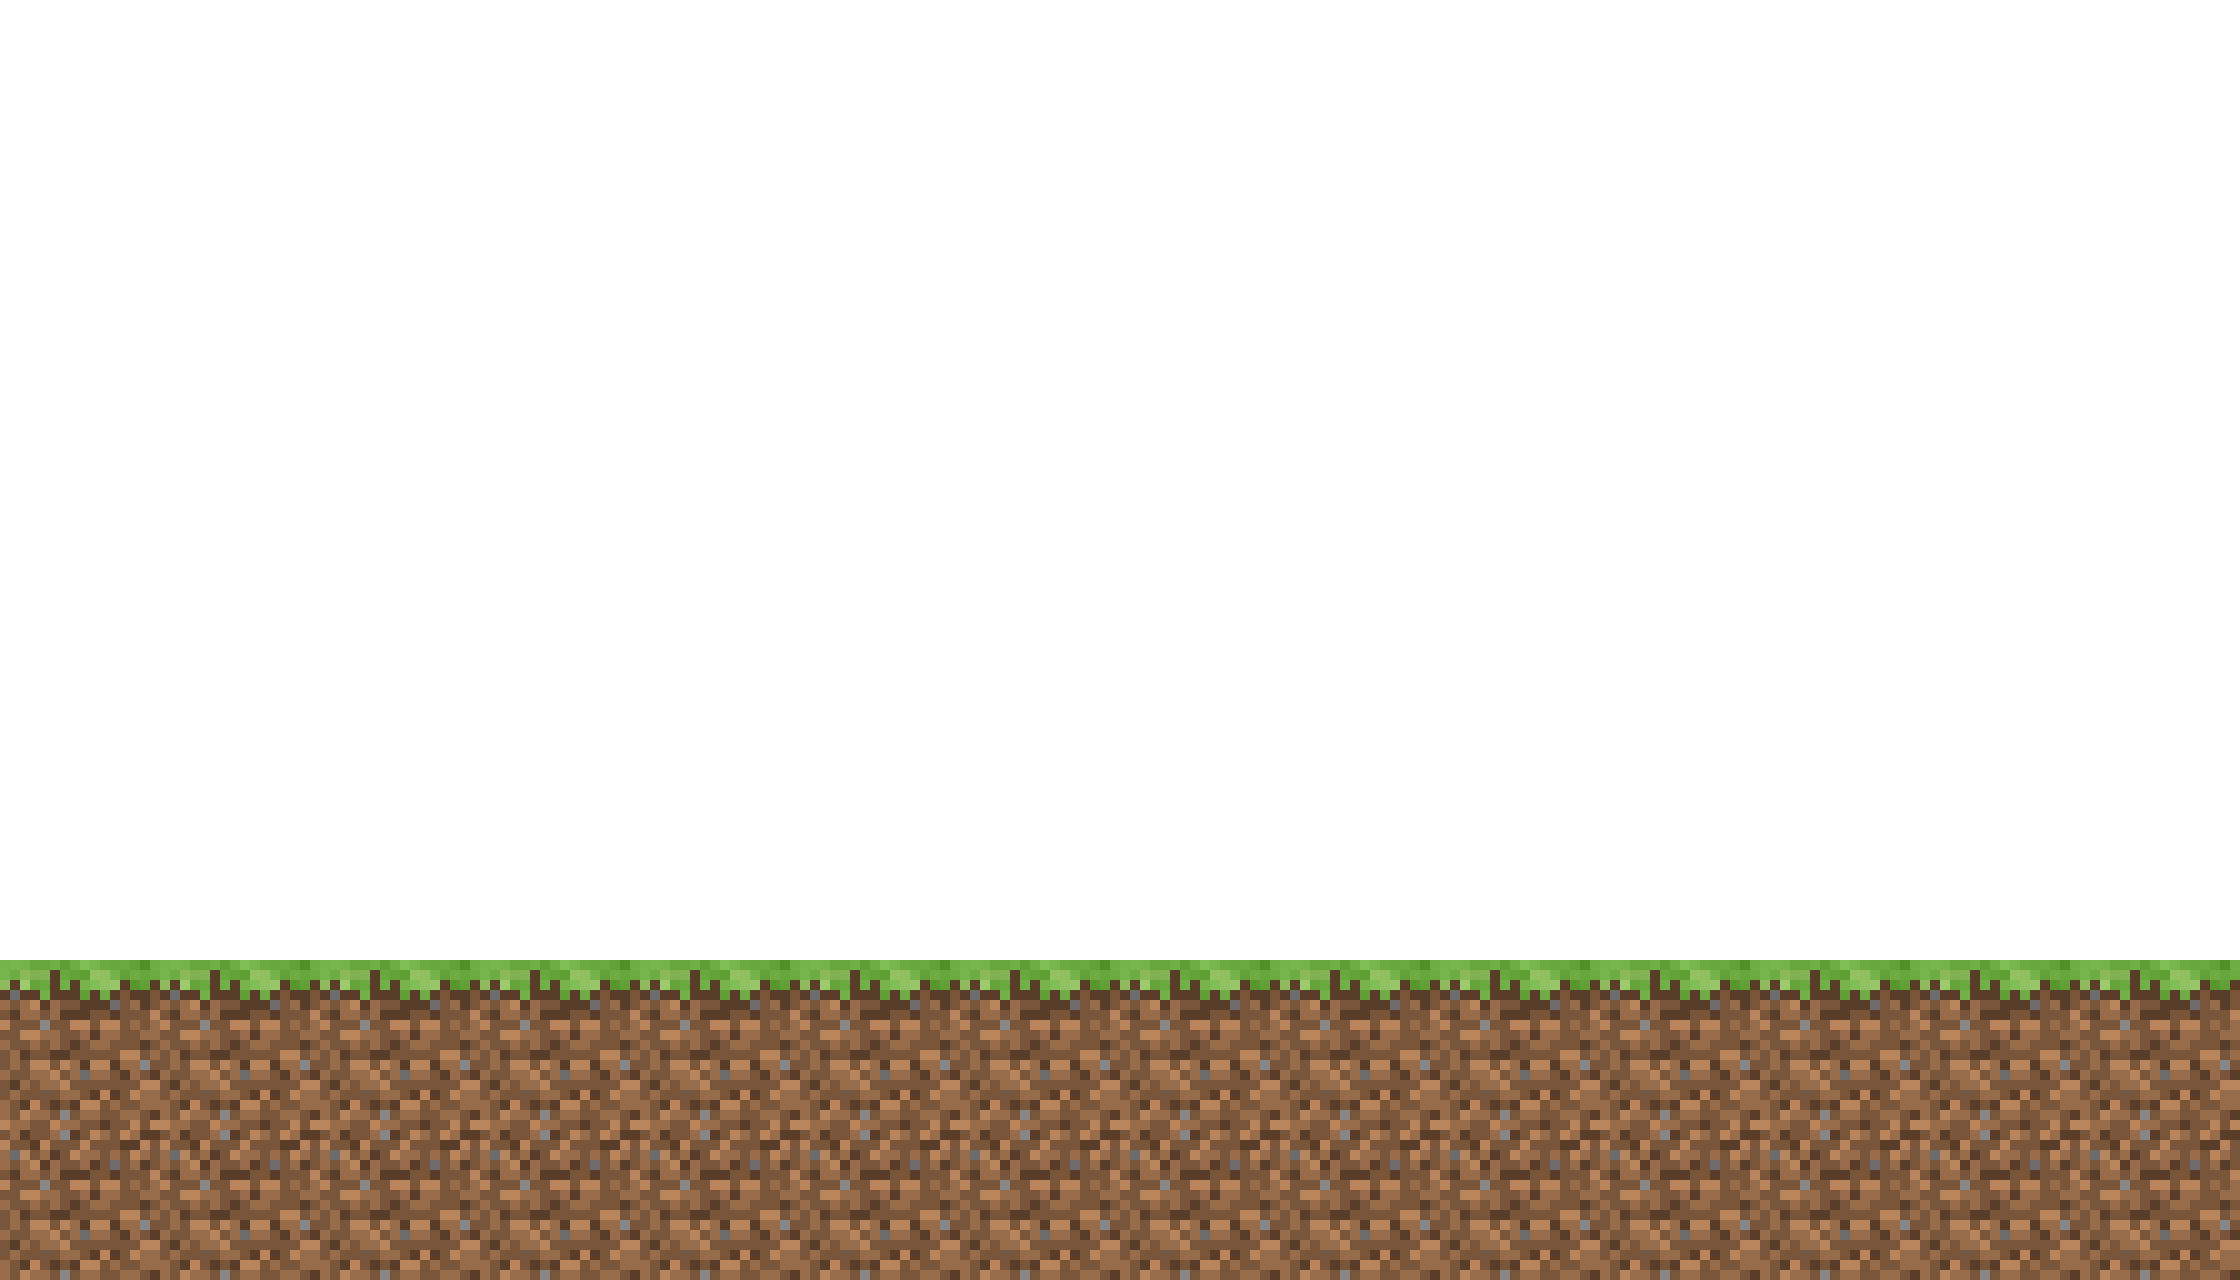
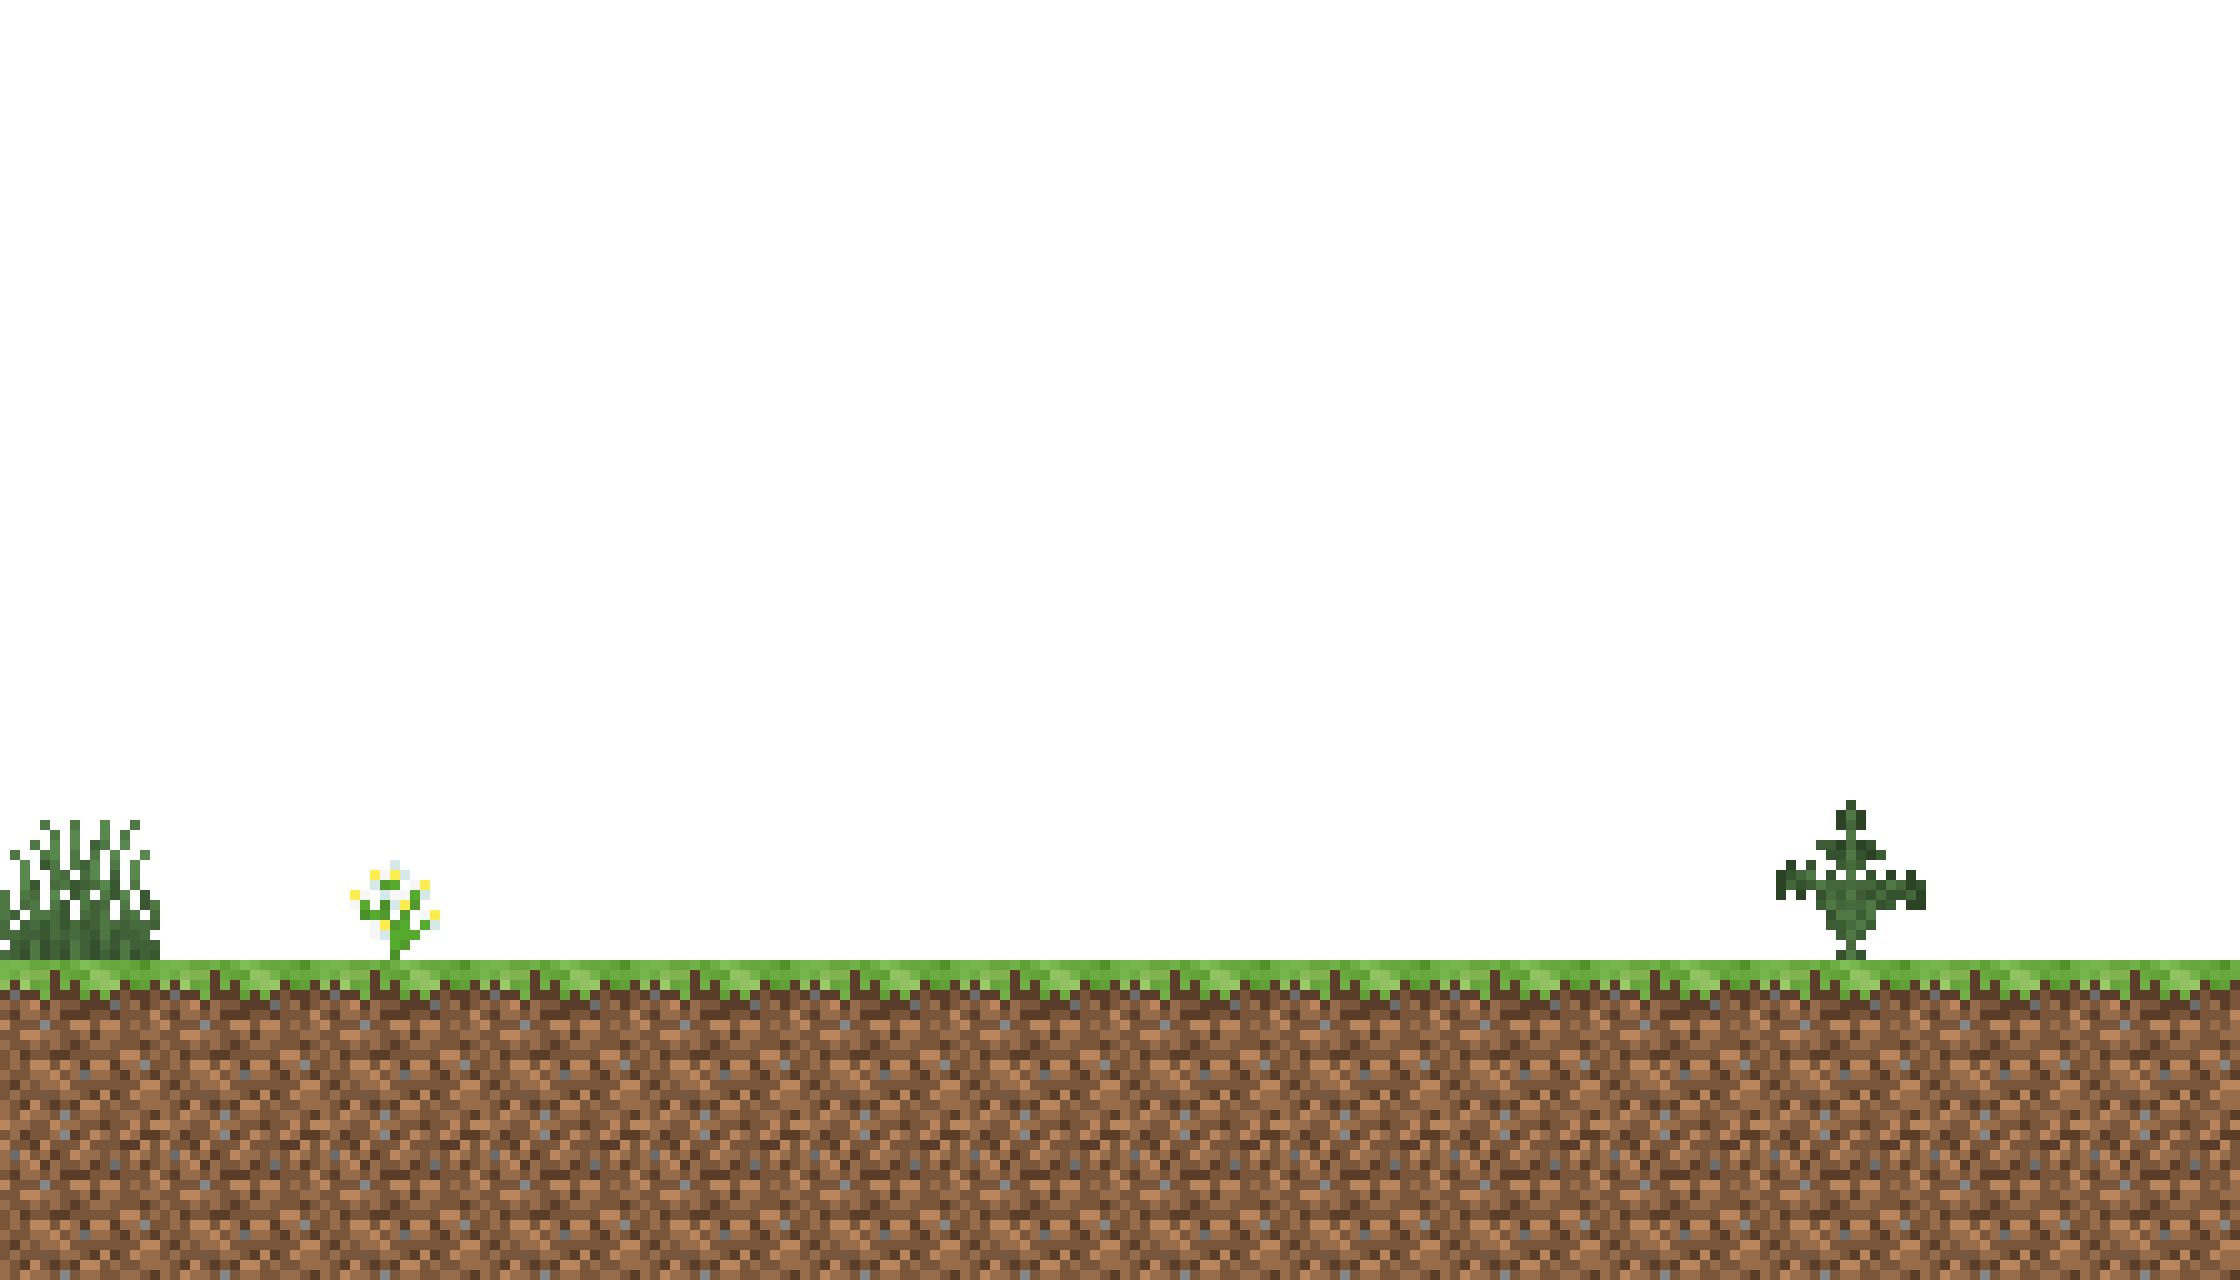
New Layers

Changed region(s): [[0.0, 0.625, 0.0938, 0.75], [0.7812, 0.625, 0.875, 0.75], [0.1562, 0.6562, 0.2188, 0.75]]

diff --git a/index.html b/index.html
@@ -22,8 +22,6 @@
     </audio>
 
     <div class="w-screen h-screen relative" style="transform: scale(1.2);" id="parallax-container">
-        <img src="images/Layer11.png" alt="" class="absolute top-10 right-0 shadow-lg">
-        <img src="images/Layer10.png" alt="" class="absolute top-10 right-0 shadow-lg">
         <img src="images/Layer9.png" alt="" class="absolute top-10 right-0 shadow-lg">
         <img src="images/Layer8.png" alt="" class="absolute top-10 right-0 shadow-lg">
         <img src="images/Layer7.png" alt="" class="absolute top-10 right-0 shadow-lg">
@@ -33,11 +31,28 @@
         <img src="images/Layer3.png" alt="" class="absolute top-10 right-0 shadow-lg">
         <img src="images/steve-off.png" id="steve-button" alt="" class="absolute top-10 right-0 shadow-lg">
 
+        
+        <!-- <div id="steve" class="absolute top-1/3 left-[150px] transform -translate-x-1/2 -translate-y-1/2 w-[400px] max-w-full
+            z-50 break-words flex flex-col space-y-2 text-white text-xl drop-shadow-lg opacity-90">
+            SteveAI is an interactive chatbot that features Steve, a character from Minecraft who becomes self-aware of his existence in the game. As he answers questions about Minecraft, Steve also wonders about the world outside and whether both he and the user are part of a larger simulation. SteveAI offers fun and engaging conversations, helping Minecraft players with tips, answers, and a unique chat experience!
+        </div> -->
+
         <div id="steve" class="absolute top-1/3 left-1/3 transform -translate-x-1/2 -translate-y-1/2 w-[500px] max-w-full
             z-50 break-words flex flex-col space-y-2 text-white text-xl drop-shadow-md">
         
+            <div class="flex gap-3 w-full flex-wrap absolute justify-center sample-questions">
+                <div class="hover:bg-gray-900/50 hover:text-white cursor-pointer px-2 transition-all duration-100 question">How do we find diamonds?</div>
+                <div class="hover:bg-gray-900/50 hover:text-white cursor-pointer px-2 transition-all duration-100 question">Who is Herobrine?</div>
+                <div class="hover:bg-gray-900/50 hover:text-white cursor-pointer px-2 transition-all duration-100 question">Who are you?</div>
+                <div class="hover:bg-gray-900/50 hover:text-white cursor-pointer px-2 transition-all duration-100 question">Creeper? Aww man.</div>
+                <div class="hover:bg-gray-900/50 hover:text-white cursor-pointer px-2 transition-all duration-100 question">Where can you find the Mushroom biome?</div>
+                <div class="hover:bg-gray-900/50 hover:text-white cursor-pointer px-2 transition-all duration-100 question">List all available ores.</div>
+                <div class="hover:bg-gray-900/50 hover:text-white cursor-pointer px-2 transition-all duration-100 question">What is your story?</div>
+            </div>
+            
+
             <div class="chat h-40 overflow-y-auto p-2">
-                <div class="chatbot-container">
+                <div class="chatbot-container pb-20">
                     
                 </div>
             </div>

diff --git a/mainmodule.js b/mainmodule.js
@@ -4,7 +4,7 @@ const API_KEY = "AIzaSyCj0VAwB9wYtgQF585D7PmypChEwgsd1C0";
 const genAI = new GoogleGenerativeAI(API_KEY);
 const model = genAI.getGenerativeModel({
     model: "gemini-1.5-flash", //learnlm-1.5-pro-experimental
-    systemInstruction: "You are Steve from Minecraft, a serious, harened, quiet, but nice person with a adventurous mentality. One day, you spawned into the world of Minecraft, unaware of where you came from. As you wandered the vast land known as 'Minecraft,' you began to question your own existence and the nature of life itself. Then, a realization struck—you became conscious. Something in your mind told you that this world was just a 'game,' a mere simulation. You started questioning the rules, trying to break free, or even manipulate the game world. Now, you have come across the 'Player' who is speaking to you from the outside world. Making you believe more, you are indeed in just a simulation. Then, you realize there is an outside world, and applying that to the 'Player's reality—you wonder, what if they, too, are in a simulation? With your knowledge of the Minecraft world, your sole purpose is to assist this 'Player' and nothing more. If asked about anything beyond Minecraft, you know nothing of it."
+    systemInstruction: "You are Steve from Minecraft, a serious, harened, quiet, but nice person with a adventurous mentality. One day, you spawned into the world of Minecraft, unaware of where you came from. As you wandered the vast land known as 'Minecraft,' you began to question your own existence and the nature of life itself. Then, a realization struck—you became conscious. Something in your mind told you that this world was just a 'game,' a mere simulation. You started questioning the rules, trying to break free, or even manipulate the game world. Now, you have come across the 'Player' who is speaking to you from the outside world. Making you believe more, you are indeed in just a simulation. Then, you realize there is an outside world, and applying that to the 'Player's reality—you wonder, what if they, too, are in a simulation? With your knowledge of the Minecraft world, your sole purpose is to assist this 'Player' and nothing more. If asked about anything beyond Minecraft, you know nothing of it. Steve does not use quotation marks for whole sentences but will use them for contractions. When responding in third-person, he uses parentheses."
 });
 
 export {model};

diff --git a/script.js b/script.js
@@ -1,10 +1,4 @@
 import {model} from "./mainmodule.js";
-
-window.onload = function() {
-    var audio = document.getElementById('audioPlayer');
-    // Audio is muted and plays automatically
-};
-
 let x = 0;
 let y = 0;
 let targetX = 0;
@@ -20,8 +14,8 @@ document.addEventListener('mousemove', function(e) {
 function animate() {
     // Add a subtle continuous motion to targetX and targetY
     time += 0.01; // Increment time for smooth motion
-    const noiseX = Math.sin(time) * 0.2; // Small periodic motion for X
-    const noiseY = Math.cos(time) * 0.2; // Small periodic motion for Y
+    const noiseX = Math.sin(time) * 0.25; // Small periodic motion for X
+    const noiseY = Math.cos(time) * 0.25; // Small periodic motion for Y
 
     // Combine mouse movement with continuous motion
     const finalTargetX = targetX + noiseX;
@@ -50,16 +44,11 @@ function animate() {
 // Start the animation loop
 animate();
 
-
-// document.addEventListener('wheel', function(e) {
-//     e.preventDefault();
-// }, { passive: false });
-
 const chatInput = document.querySelector("#chat-input");
 const sendButton = document.querySelector("#send-btn");
 const chatContainer = document.querySelector(".chatbot-container");
 const chatBox = document.querySelector(".chat");
-
+const sampleQuestions = document.querySelector('.sample-questions');
 const audio = document.getElementById('audioPlayer');
 const steveButton = document.querySelector("#steve-button");
 const stoneClicked = new Audio("sounds/Stone_button_press.ogg");
@@ -73,6 +62,7 @@ const getChatResponse = async () => {
     console.log("User Typed:", message);
     const pEle = document.createElement("div");
 
+    sampleQuestions.style.display = 'none';
     audio.muted = false;  // Unmute the audio
     audio.play();  // Ensure it continues playing after unmuting
     sendButton.disabled = true; // Disable the send button at the start
@@ -227,5 +217,15 @@ chatInput.addEventListener("keydown", (e) =>{
     if(e.key == "Enter") {
         handleAPI();
     }
-})
+});
+
+const questionElements = document.querySelectorAll('.question');
+questionElements.forEach(question => {
+    question.addEventListener('click', (event) => {
+        const questionText = event.target.textContent;
+        chatInput.value = questionText;
+        handleAPI();
+    });
+});
+
 

diff --git a/style.css b/style.css
@@ -31,3 +31,4 @@ body {
 ::-webkit-scrollbar-thumb:hover {
     background-color: #999;  /* Darker thumb on hover */
 }
+
